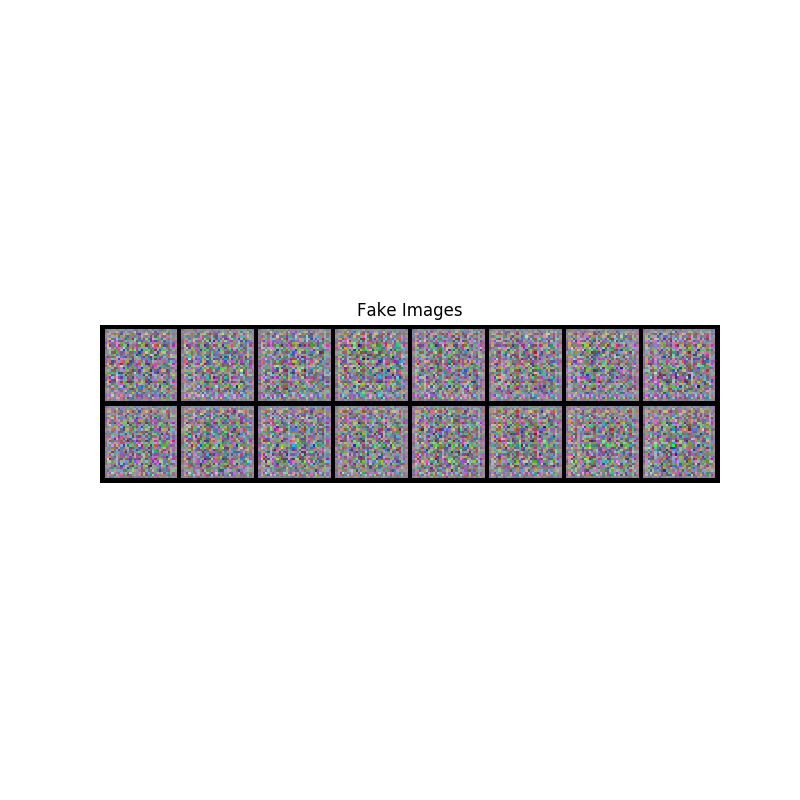
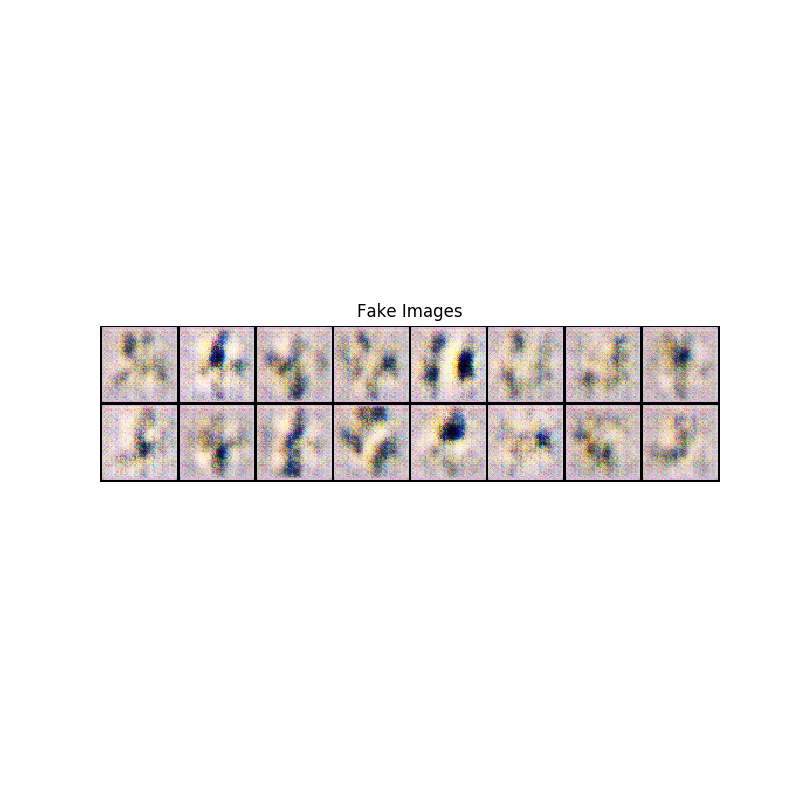
prelim results

Changed region(s): [[0.125, 0.375, 0.9062, 0.625]]

diff --git a/DCGAN/gan.py b/DCGAN/gan.py
@@ -28,14 +28,14 @@ torch.manual_seed(manualSeed)
 dataroot = "data/Romeria"
 
 # Number of workers for dataloader
-workers = 16
+workers = 2
 
 # Batch size during training
 batch_size = 16
 
 # Spatial size of training images. All images will be resized to this
 #   size using a transformer.
-image_size = 256
+image_size = 64
 
 # Number of channels in the training images. For color images this is 3
 nc = 3
@@ -56,11 +56,15 @@ num_epochs = 25
 lr = .0002
 
 # Beta1 hyperparam for Adam optimizers
-beta1 = 0.9
+beta1 = 0.5
 
 # Number of GPUs available. Use 0 for CPU mode.
 ngpu = 1
 
+
+# Number of images per slide 
+
+num_images = 32
 # We can use an image folder dataset the way we have it setup.
 # Create the dataset
 dataset = dset.ImageFolder(root=dataroot,
@@ -126,17 +130,9 @@ class Generator(nn.Module):
             nn.BatchNorm2d(ngf*4),
             nn.ReLU(True),
             # state size. (ngf * 4) x 32 x 32
-            nn.ConvTranspose2d( ngf * 4, ngf*2, 4, 2, 1, bias=False),
-            nn.BatchNorm2d(ngf*2),
-            nn.ReLU(True),
-            # state size. (ngf * 2) x 64 x 64
-            nn.ConvTranspose2d( ngf * 2, ngf, 4, 2, 1, bias=False),
-            nn.BatchNorm2d(ngf),
-            nn.ReLU(True),
-            # state size. (ngf ) x 128 x 128
-            nn.ConvTranspose2d( ngf, nc, 4, 2, 1, bias=False),
+            nn.ConvTranspose2d( ngf * 4, nc, 4, 2, 1, bias=False),          
             nn.Tanh()
-            # state size. (nc) x 256 x 256
+            # state size. (nc) x 64 x 64
         )
 
     def forward(self, input):
@@ -151,31 +147,23 @@ class Discriminator(nn.Module):
         super(Discriminator, self).__init__()
         self.ngpu = ngpu
         self.main = nn.Sequential(
-            # input is (nc) x 256 x 256
+            # input is (nc) x 64 x 64
             nn.Conv2d(nc, ndf, 4, 2, 1, bias=False),
             nn.LeakyReLU(0.2, inplace=True),
-            # state size. (ndf) x 128 x 128
+            # state size. (ndf) x 32 x 32
             nn.Conv2d(ndf, ndf * 2, 4, 2, 1, bias=False),
             nn.BatchNorm2d(ndf * 2),
             nn.LeakyReLU(0.2, inplace=True),
-            # state size. (ndf*2) x 64 x 64
+            # state size. (ndf*2) x 16 x 16
             nn.Conv2d(ndf * 2, ndf * 4, 4, 2, 1, bias=False),
             nn.BatchNorm2d(ndf * 4),
             nn.LeakyReLU(0.2, inplace=True),
-            # state size. (ndf*4) x 32 x 32
+            # state size. (ndf*4) x 8 x 8
             nn.Conv2d(ndf * 4, ndf * 8, 4, 2, 1, bias=False),
             nn.BatchNorm2d(ndf * 8),
-            nn.LeakyReLU(0.2, inplace=True),
-            # state size. (ndf *8) x 16 x 16
-            nn.Conv2d(ndf * 8, ndf * 16, 4, 2, 1, bias=False),
-            nn.BatchNorm2d(ndf * 16),
-            nn.LeakyReLU(0.2, inplace=True),
-            # state size. (ndf * 16) x 8 x 8
-            nn.Conv2d(ndf * 16, ndf * 32, 4, 2, 1, bias=False),
-            nn.BatchNorm2d(ndf * 32),
-            nn.LeakyReLU(0.2, inplace=True),
+            nn.LeakyReLU(0.2, inplace=True),           
             # state size. (ndf*32) x 4 x 4
-            nn.Conv2d(ndf * 32, 1, 4, 1, 0, bias=False),
+            nn.Conv2d(ndf * 8, 1, 4, 1, 0, bias=False),
             nn.Sigmoid()
         )
 
@@ -219,7 +207,7 @@ criterion = nn.BCELoss()
 
 # Create batch of latent vectors that we will use to visualize
 #  the progression of the generator
-fixed_noise = torch.randn(16, nz, 1, 1, device=device)
+fixed_noise = torch.randn(num_images, nz, 1, 1, device=device)
 
 # Establish convention for real and fake labels during training
 real_label = 1
@@ -318,7 +306,7 @@ for epoch in range(num_epochs):
 real_batch = next(iter(dataloader))
 
 # Plot the real images
-plt.figure(figsize=(8,8))
+plt.figure(figsize=(4,4))
 # plt.subplot(1,2,1)
 # plt.axis("off")
 # plt.title("Real Images")
@@ -330,4 +318,4 @@ plt.axis("off")
 plt.title("Fake Images")
 print(img_list[-1].shape)
 plt.imshow(np.transpose(img_list[-1],(1,2,0)))
-plt.savefig("Original_and_Fake_Images.png")
+plt.savefig("Fake_Images.png")
